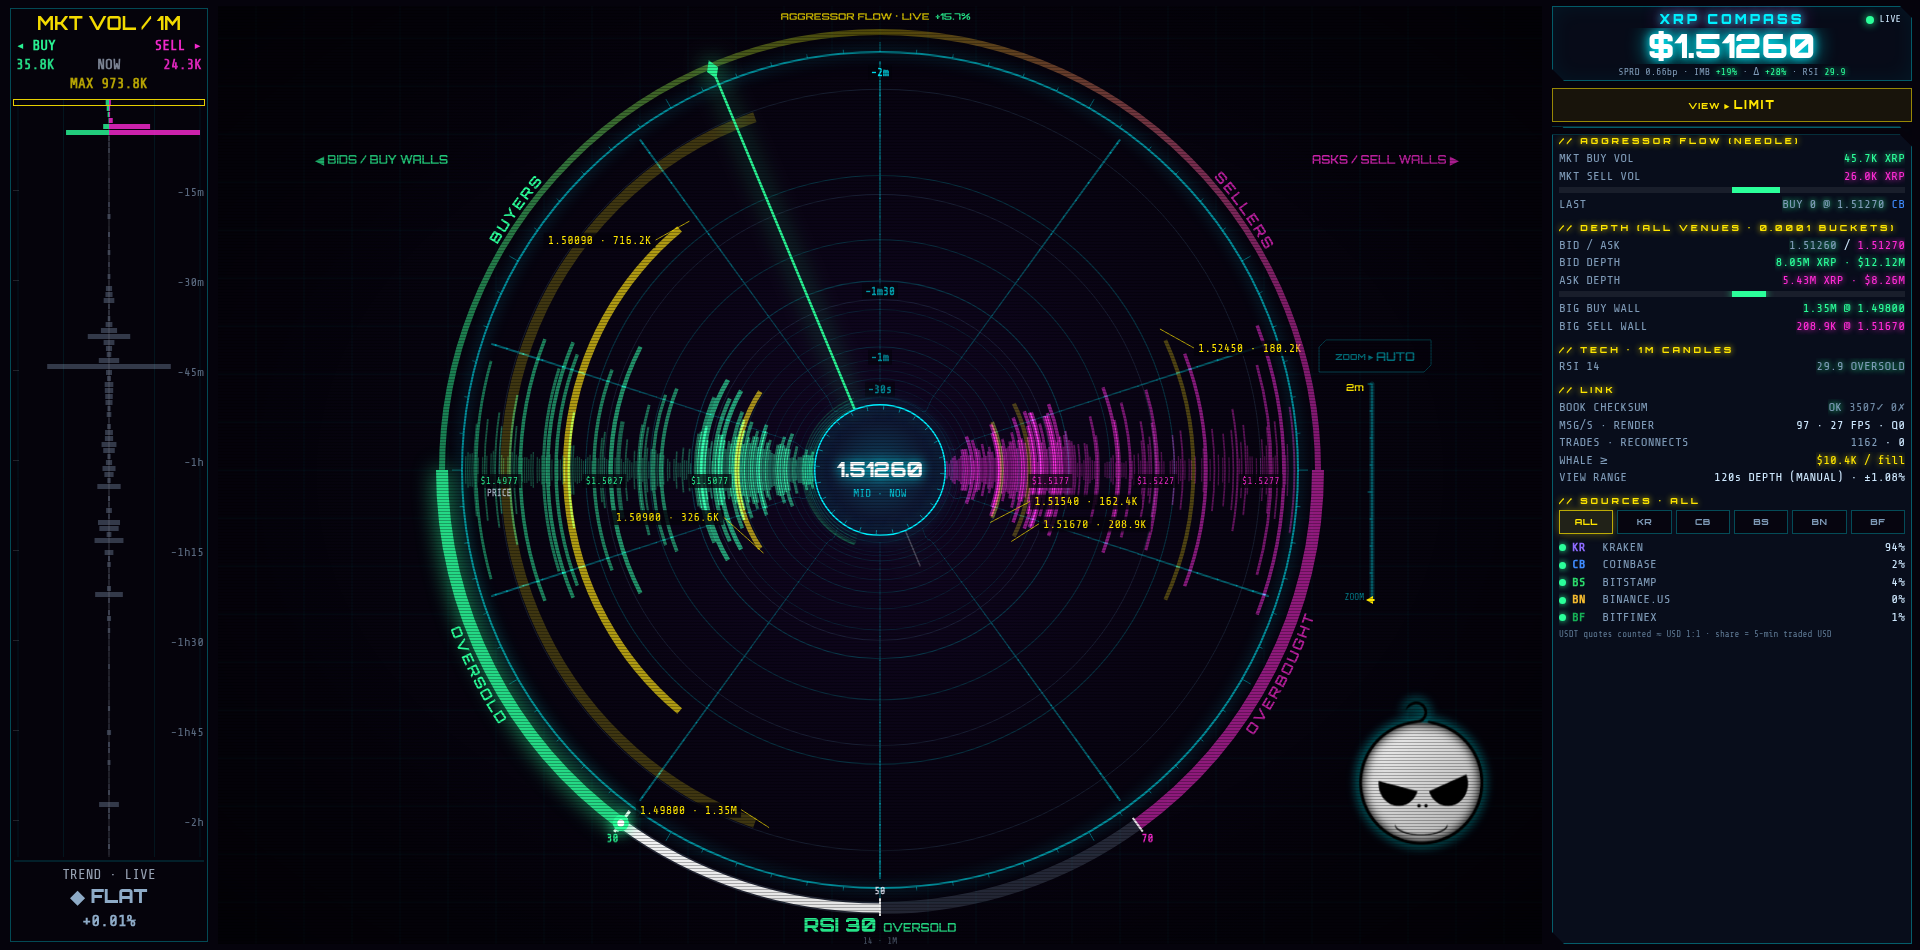
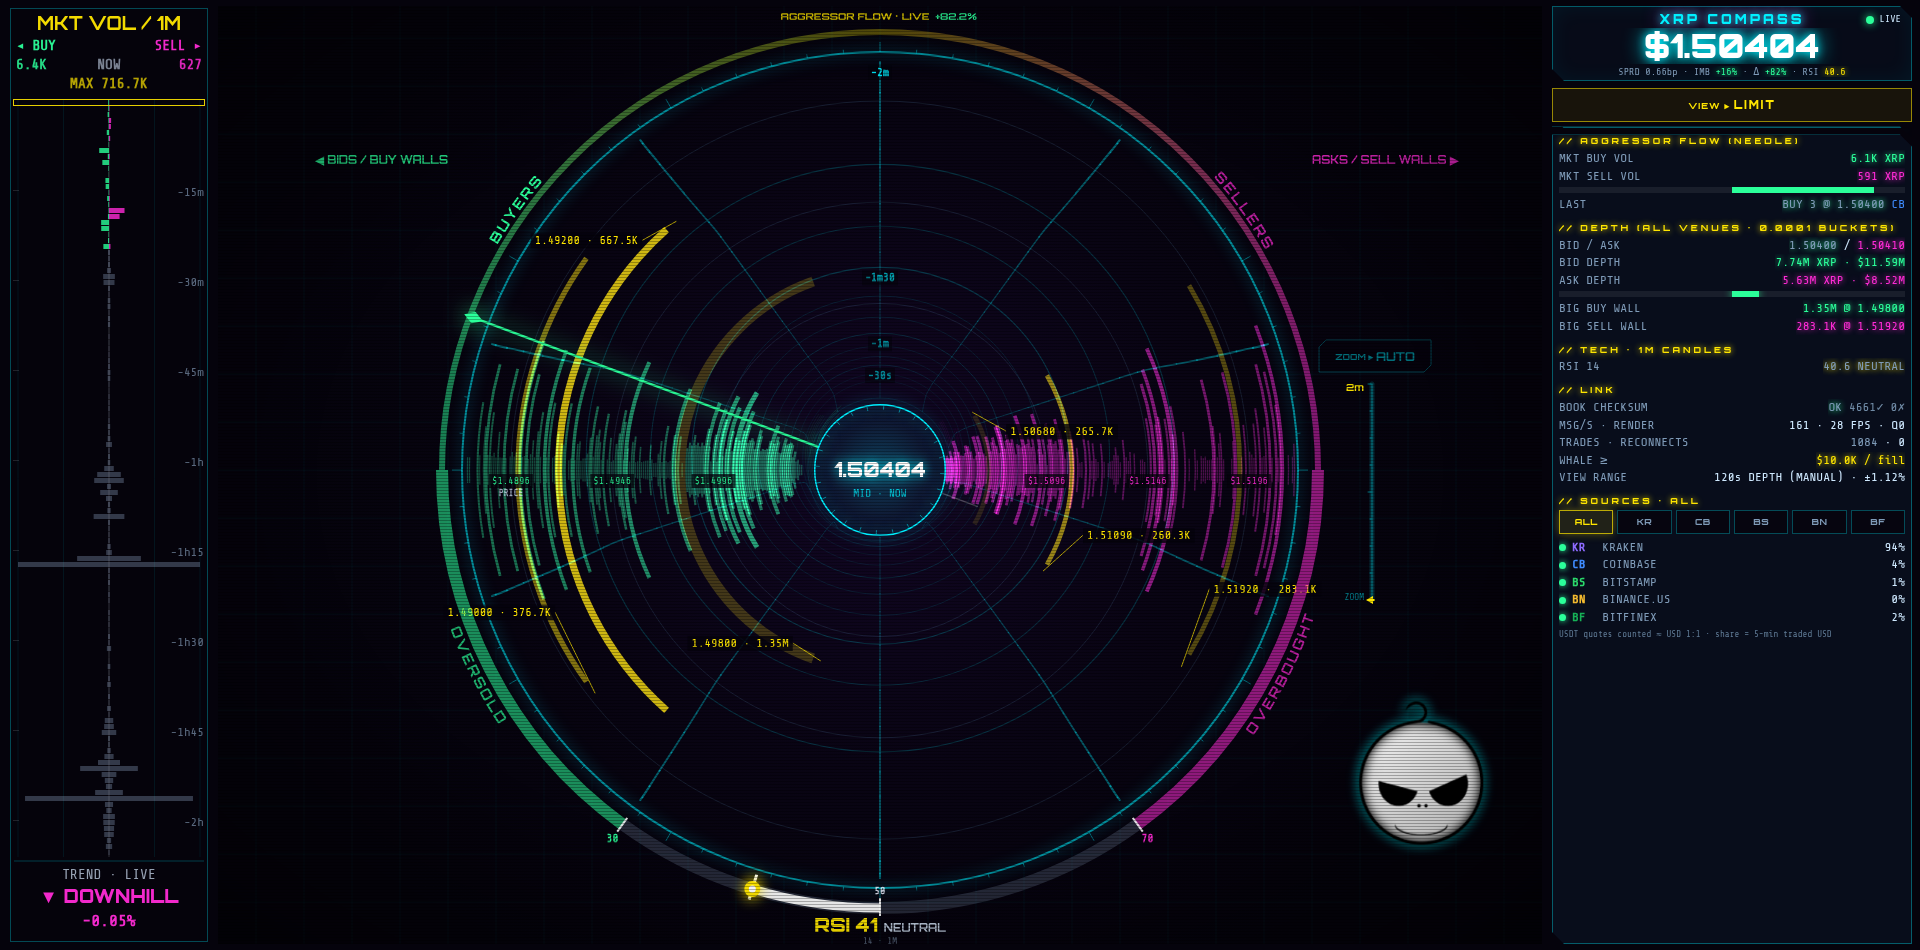
MARKET: burst sparks, thicker trail glow, symmetric AUTO vortex response; AUTO off -> zoom fully out

diff --git a/index.html b/index.html
@@ -3,7 +3,7 @@
 <head>
 <meta charset="utf-8">
 <meta http-equiv="Cache-Control" content="no-cache, no-store, must-revalidate"><meta http-equiv="Pragma" content="no-cache"><meta http-equiv="Expires" content="0">
-<script>window.OFC_BUILD='20261002-1106';(function(){try{if(!/^https?:/.test(location.protocol))return;fetch(location.pathname+'?_='+Date.now(),{cache:'no-store'}).then(r=>r.text()).then(t=>{const m=t.match(/OFC_BUILD='([^']+)'/);if(m&&m[1]!==window.OFC_BUILD&&sessionStorage.getItem('ofcB')!==m[1]){sessionStorage.setItem('ofcB',m[1]);location.replace(location.pathname+'?v='+m[1]+location.hash);}}).catch(()=>{});}catch(e){}})();</script>
+<script>window.OFC_BUILD='20261002-1220';(function(){try{if(!/^https?:/.test(location.protocol))return;fetch(location.pathname+'?_='+Date.now(),{cache:'no-store'}).then(r=>r.text()).then(t=>{const m=t.match(/OFC_BUILD='([^']+)'/);if(m&&m[1]!==window.OFC_BUILD&&sessionStorage.getItem('ofcB')!==m[1]){sessionStorage.setItem('ofcB',m[1]);location.replace(location.pathname+'?v='+m[1]+location.hash);}}).catch(()=>{});}catch(e){}})();</script>
 <meta name="viewport" content="width=device-width,initial-scale=1,viewport-fit=cover,user-scalable=no">
 <meta name="theme-color" content="#05030c">
 <meta name="color-scheme" content="dark">
@@ -247,6 +247,8 @@ const book={bids:new Map(), asks:new Map(), ready:false};
 let sortedB=[], sortedA=[];                 // COMBINED [[p,q]] bids desc, asks asc (all venues or the selected one)
 let kB=[], kA=[];                           // Kraken's own book (for its CRC32 checksum)
 let mid=0, dispMid=0, bestBid=0, bestAsk=0;
+let SIM={on:false,base:0,t0:0,dir:0,amp:0,ramp:1};const simOff=()=>SIM.dir?SIM.dir*SIM.amp*Math.min(1,Math.max(0,(Date.now()-SIM.t0)/SIM.ramp)):0;
+const simPx=p=>SIM.on?SIM.base+simOff():p;   // test-only: replace prices with a synthetic flat/ramp path   // test-only synthetic price move (0 unless __ofc.simMove)
 let trades=[];                              // {t,side,qty,px}
 let bubbles=[];                             // {t,side,qty,px,ang,whale,usd}
 let sparks=[], shocks=[];
@@ -400,11 +402,11 @@ function processTrades(list,replay){
   // aggregate fills of one batch by side+price (Bookmap-style)
   const agg=new Map();
   for(const t of list){
-    const side=t.side, px=t.px, qty=t.qty, ts=t.ts;
+    const side=t.side, px=simPx(t.px), qty=t.qty, ts=t.ts;
     if(addSplit(t.v+':'+t.id,ts,side,qty,px)===false)continue;
     trades.push({t:Math.min(ts,dnow),side,qty,px,v:t.v});
     heatAdd(px,side,qty,Math.max(0,(dnow-ts)/1000));
-    if(!replay&&dnow-ts<3000){impacts.push({t:pnow,px,side,qty});if(impacts.length>60)impacts.shift();}
+    if(!replay&&dnow-ts<3000){impacts.push({t:pnow,px,side,qty,life:burst.on?1150:700,bu:burst.on});if(impacts.length>60)impacts.shift();}
     if(!replay){tradeCount++; lastTrade={side,px,qty,v:t.v};}
     const k=side+px; const a=agg.get(k);
     if(a){a.qty+=qty;}else agg.set(k,{side,px,qty,id:hashStr(t.v+t.id),ts,v:t.v});
@@ -465,7 +467,7 @@ function combine(){
   sortedB=[...bm.entries()].filter(x=>x[0]<M).sort((x,y)=>y[0]-x[0]);sortedA=[...am.entries()].filter(x=>x[0]>M).sort((x,y)=>x[0]-y[0]);
   if(sortedB.length>200)sortedB.length=200;if(sortedA.length>200)sortedA.length=200;
   if(!sortedB.length||!sortedA.length){BREADY=false;return;}
-  bestBid=sortedB[0][0];bestAsk=sortedA[0][0];mid=one?(bestBid+bestAsk)/2:M;if(!dispMid)dispMid=mid;BREADY=true;
+  bestBid=sortedB[0][0];bestAsk=sortedA[0][0];mid=simPx(one?(bestBid+bestAsk)/2:M);if(!dispMid)dispMid=mid;BREADY=true;
 }
 setInterval(()=>{if(combDirty)combine();},LOWDEV()?250:150);
 function LOWDEV(){return matchMedia('(pointer:coarse)').matches;}
@@ -1272,7 +1274,7 @@ function drawTrail(now){
     const r=RMAX*KO*s+off, th=ang(age);   // head (f=0) = newest trade -> off 0 -> rides the outer ring
     let x=p.x+Math.cos(th)*r, y=p.y+Math.sin(th)*r;
     {const dx=x-CX,dy=y-CY,d=Math.hypot(dx,dy),m=RMAX*0.995,k0=0.9*m;if(d>k0){const dd=k0+(m-k0)*Math.tanh((d-k0)/(m-k0));x=CX+dx*dd/d;y=CY+dy*dd/d;}}   // soft outer edge
-    if(WIG.length<4000)WIG.push(off);
+    if(WIG.length<4000)WIG.push(off); if(f===3||f===8)(window.__ofcR=window.__ofcR||{})['o'+f]=off;
     return {x,y,s,u};};
   const SUB=MWIN<=20?10:MWIN<=45?6:MWIN<=90?4:3, sub=a=>{const o=[];for(let j=0;j<=SUB;j++)o.push(pt(a+j/SUB));return o;};
   const P=[];for(let a=0;a<=NW;a++)P.push(pt(a));
@@ -1287,15 +1289,17 @@ function drawTrail(now){
   // centreline spine: thin continuous track that fades into the vanishing point
   ctx.lineWidth=1;
   const S=[];for(let a=0;a<P.length-1;a++)S.push(sub(a));
-  for(const [lw,al] of [[5,0.12],[1.4,0.7]]){ctx.lineWidth=lw;
+  for(const [lw,al] of (LOW?[[10,0.10],[4.5,0.16],[1.6,0.75]]:[[14,0.07],[8,0.12],[4,0.18],[1.6,0.75]])){ctx.lineWidth=lw*Math.max(0.8,RMAX/400);
     for(let a=0;a<S.length;a++){const q=S[a];ctx.strokeStyle=`rgba(0,240,255,${(al*Math.pow(P[a].u,0.8)).toFixed(3)})`;
       ctx.beginPath();ctx.moveTo(q[0].x,q[0].y);for(let j=1;j<q.length;j++)ctx.lineTo(q[j].x,q[j].y);ctx.stroke();}}
   // volume ribbon: colour = buy/sell dominance, width = volume; thins and fades with depth
   ctx.globalCompositeOperation='lighter';
   for(let a=P.length-2;a>=0;a--){const b=trail[a],v=b.bs+b.ss;if(v<=0)continue;
     const rel=Math.sqrt(v/vref),c=mixCol((b.bs-b.ss)/v),p0=P[a],p1=P[a+1],u=p0.u;if(u<=0.01)continue;
-    const ht=hot[a]; ctx.strokeStyle=rgba(c,Math.min(1,(0.4+0.45*rel+0.45*ht)*Math.pow(u,0.9)));ctx.lineWidth=(2.4+RMAX*0.07*rel+RMAX*0.05*ht)*(0.12+0.88*u);
-    if(Q>0&&(rel>0.35||ht>0.3)&&u>0.3){ctx.shadowColor=rgba(c,1);ctx.shadowBlur=(12*rel+18*ht*(0.7+0.3*pulse))*u;}else ctx.shadowBlur=0;
+    const ht=hot[a],LW=(2.4+RMAX*0.07*rel+RMAX*0.05*ht)*(0.12+0.88*u);
+    {const q=S[a];ctx.shadowBlur=0;ctx.strokeStyle=rgba(c,(0.16*Math.pow(u,0.9)).toFixed(3));ctx.lineWidth=LW*2.4+6*(0.3+0.7*u);ctx.beginPath();ctx.moveTo(q[0].x,q[0].y);for(let j=1;j<q.length;j++)ctx.lineTo(q[j].x,q[j].y);ctx.stroke();}   // wide soft glow underlay
+    ctx.strokeStyle=rgba(c,Math.min(1,(0.4+0.45*rel+0.45*ht)*Math.pow(u,0.9)));ctx.lineWidth=LW;
+    if(Q>0&&(rel>0.25||ht>0.3)&&u>0.3){ctx.shadowColor=rgba(c,1);ctx.shadowBlur=(18*rel+26*ht*(0.7+0.3*pulse))*u;}else ctx.shadowBlur=0;
     {const q=S[a];ctx.beginPath();ctx.moveTo(q[0].x,q[0].y);for(let j=1;j<q.length;j++)ctx.lineTo(q[j].x,q[j].y);ctx.stroke();}}
   ctx.shadowBlur=0;
   // bloom + twinkling sparks where the trail crosses the most-traded levels
@@ -1309,12 +1313,14 @@ function drawTrail(now){
     TRHOT.push({a,key:trailT-a*1000*trailStep,x:p.x,y:p.y,ht,u:p.u,px:b.Ps,v:HT[a],c:b.bs>=b.ss?COL.bid:[255,59,107]});}
   TRHEAD={x:P[0].x,y:P[0].y};TRP=P;
   // fresh prints burst as short sparks from the head (NOW)
-  impacts=impacts.filter(m=>now-m.t<700);
-  for(const m of impacts){const k=(now-m.t)/700,c=m.side==='buy'?COL.bid:COL.ask,big=Math.min(1,Math.sqrt(m.qty*(m.px||1)/whaleUSD));if(big<0.08)continue;
+  impacts=impacts.filter(m=>now-m.t<(m.life||700));
+  for(const m of impacts){const k=(now-m.t)/(m.life||700),c=m.side==='buy'?COL.bid:COL.ask,big=Math.min(1,Math.sqrt(m.qty*(m.px||1)/whaleUSD));if(big<0.08)continue;
     const th=(m.t*0.0137)%(Math.PI*2),d0=R0*(0.15+0.9*k),d1=d0+R0*(0.25+0.8*big)*(1-k),HX=TRHEAD.x,HY=TRHEAD.y;
-    ctx.strokeStyle=rgba(c,0.9*(1-k));ctx.lineWidth=1+2*big;ctx.shadowColor=rgba(c,1);ctx.shadowBlur=Q>0?10:0;
+    const BU=m.bu?1:0;ctx.strokeStyle=rgba(BU?[Math.min(255,c[0]+90),Math.min(255,c[1]+90),Math.min(255,c[2]+90)]:c,(BU?1:0.9)*(1-k));ctx.lineWidth=(1+2*big)*(1+0.8*BU);ctx.shadowColor=rgba(c,1);ctx.shadowBlur=Q>0?10+10*BU:0;
+    if(BU&&!m.sp){m.sp=1;spawnBP(m,c,big);}
     ctx.beginPath();ctx.moveTo(HX+Math.cos(th)*d0,HY+Math.sin(th)*d0);ctx.lineTo(HX+Math.cos(th)*d1,HY+Math.sin(th)*d1);ctx.stroke();}
   ctx.shadowBlur=0;
+  drawBP(now);
   // whale nodes: small bright dots along the trail
   trail.forEach((b,a)=>{if(!b.wh||a>=P.length)return;const p=P[a];if(p.u<=0.03)return;const c=b.wh.side==='buy'?COL.bid:COL.ask;
     const r=(1.8+Math.min(4,1.6*Math.sqrt(b.wh.usd/whaleUSD)))*(0.4+0.6*p.u);
@@ -1325,6 +1331,20 @@ function drawTrail(now){
   ctx.shadowBlur=0;ctx.globalCompositeOperation='source-over';
   ctx.restore();
 }
+// burst particles (MARKET, only while a volume burst is active): more, bigger, brighter, longer-lived sparks flung from the head
+let BP=[],BPt=0;
+function spawnBP(m,c,big){const n=Math.round((LOW?5:11)*(0.6+big)),sc=RMAX/400;
+  for(let i=0;i<n;i++){const a=Math.random()*Math.PI*2,v=(60+Math.random()*190)*sc*(0.7+0.6*big);
+    BP.push({x:TRHEAD.x,y:TRHEAD.y,vx:Math.cos(a)*v,vy:Math.sin(a)*v,t0:performance.now(),life:900+Math.random()*900,sz:(1.4+Math.random()*2.2)*(0.8+0.5*big)*Math.max(0.8,sc),c});}
+  const CAP=LOW?140:420;if(BP.length>CAP)BP.splice(0,BP.length-CAP);}
+function drawBP(now){const dt=BPt?Math.min(0.05,(now-BPt)/1000):0;BPt=now;if(!BP.length)return;
+  BP=BP.filter(p=>now-p.t0<p.life);const dr=Math.exp(-dt*1.6);
+  ctx.save();ctx.globalCompositeOperation='lighter';ctx.lineCap='round';
+  for(const p of BP){p.x+=p.vx*dt;p.y+=p.vy*dt;p.vx*=dr;p.vy*=dr;const k=(now-p.t0)/p.life,al=Math.pow(1-k,1.3),c=p.c;
+    const tx=p.x-p.vx*0.07,ty=p.y-p.vy*0.07;
+    ctx.strokeStyle=rgba(c,(0.35*al).toFixed(3));ctx.lineWidth=p.sz*3.2*(1-0.5*k);ctx.beginPath();ctx.moveTo(tx,ty);ctx.lineTo(p.x,p.y);ctx.stroke();   // soft glow
+    ctx.strokeStyle=`rgba(255,255,255,${(0.95*al).toFixed(3)})`;ctx.lineWidth=p.sz*(1-0.5*k);ctx.beginPath();ctx.moveTo(tx,ty);ctx.lineTo(p.x,p.y);ctx.stroke();}   // hot core
+  ctx.restore();}
 // glowing head (NOW) riding the compass's outer ring; drawn outside the dial clip, glow capped below the gauge arcs/ring labels
 // MARKET: hub + head tag both show the LAST trade (current source filter) so they always match; LIMIT hub = MID
 const hubPx=()=>VIEW==='market'&&trades.length?trades[trades.length-1].px:mid;
@@ -1385,7 +1405,7 @@ function drawZoomBar(now){
 // tap/drag the bar to set zoom (touch + mouse); stays out of pinch / double-tap handling
 let zDrag=false, pillT=0;
 function pillHit(px,py){const Z=zbarGeom();return !!(Z&&Z.pw&&px>Z.px-6&&px<Z.px+Z.pw+6&&py>Z.py-6&&py<Z.py+Z.ph+6);}
-function pillTap(){const n=performance.now();if(n-pillT<450)return;pillT=n;intro=null;if(rangeAuto)rangeFrac=dispRange;setAuto(!rangeAuto);syncZA();}
+function pillTap(){const n=performance.now();if(n-pillT<450)return;pillT=n;intro=null;if(rangeAuto)rangeFrac=ZMAX;setAuto(!rangeAuto);syncZA();}   // AUTO off -> ease to fully zoomed out (MARKET 60 s / LIMIT 2 m) until the user zooms
 function syncZA(){const b=$('zauto');if(b&&b.classList.contains('lit')!==rangeAuto)b.classList.toggle('lit',rangeAuto);}
 $('zauto').onclick=()=>{pillTap();};  // ON snaps back to auto-fit
 function zHit(px,py){const Z=zbarGeom();return Z&&Math.abs(px-Z.x)<18&&py>Z.y0-14&&py<Z.y1+8?Z:null;}
@@ -1467,13 +1487,13 @@ function frame(){
       if(intro.set!=null&&(rangeAuto||rangeFrac!==intro.set))intro=null;          // user zoomed (pinch/wheel/bar/double-tap) -> cancel
       else{if(!intro.t0)intro.t0=now; const p=Math.min(1,(now-intro.t0)/INTRO_MS), e=p<0.5?4*p*p*p:1-Math.pow(-2*p+2,3)/2;
         rangeAuto=false; rangeFrac=ZMIN*Math.pow(ZMAX/ZMIN,e); dispRange=rangeFrac; intro.set=rangeFrac; if(p>=1)intro=null;}}
-    if(!intro){if(VIEW==='market'&&rangeAuto){const ZE=burst.on?0.08:(Date.now()-burst.rel<7000?0.022:0.05);dispRange*=Math.exp(Math.log(rangeFrac/dispRange)*ZE);}else dispRange+=(rangeFrac-dispRange)*0.05;}   // MARKET AUTO: log-space ease (burst: quick snap in; release: slow ease out)   // burst: fast smooth snap in; release: slow ease out dispMid+=(mid-dispMid)*0.2;
+    if(!intro){if(VIEW==='market'&&rangeAuto){const ZE=(burst.on||rangeFrac<dispRange)?0.08:(Date.now()-burst.rel<7000?0.022:0.05);/* symmetric: price-driven zoom-in snaps exactly like a volume burst, so up/down react identically regardless of volume */dispRange*=Math.exp(Math.log(rangeFrac/dispRange)*ZE);}else dispRange*=Math.exp(Math.log(rangeFrac/dispRange)*0.06);}   // manual: log-space ease (window is log-mapped -> smooth)   // MARKET AUTO: log-space ease (burst: quick snap in; release: slow ease out)   // burst: fast smooth snap in; release: slow ease out dispMid+=(mid-dispMid)*0.2;
   }
   ctx.fillStyle='rgba(5,3,12,1)';ctx.fillRect(0,0,W,H);
   const bg=ctx.createRadialGradient(CX,CY,0,CX,CY,RMAX*1.6);bg.addColorStop(0,'rgba(30,10,60,.55)');bg.addColorStop(1,'rgba(5,3,12,0)');ctx.fillStyle=bg;ctx.fillRect(0,0,W,H);
   updateFocal(); MWIN=VIEW==='market'?mWinOf(dispRange):MWMAX; LWIN=VIEW==='limit'?lWinOf(dispRange):HIST_SEC;
   if(VIEW==='market'){ // vortex spin: eased speed 0..1 ramps with zoom (0 at 60 s -> 1 at 15 s; burst snap in AUTO = 1); counter-clockwise (head runs clockwise)
-    const zr=Math.max(0,Math.min(1,(MWMAX-MWIN)/(MWMAX-WMIN))), zk=zr*zr*(3-2*zr), tgt=Math.max(zk,burst.on&&rangeAuto?1:0);
+    const WT=rangeAuto?Math.min(MWIN,mWinOf(rangeFrac)):MWIN, zr=Math.max(0,Math.min(1,(MWMAX-WT)/(MWMAX-WMIN))), zk=zr*zr*(3-2*zr), tgt=Math.max(zk,burst.on&&rangeAuto?1:0);
     const dt=VSP.t?Math.min(0.1,Math.max(0,(now-VSP.t)/1000)):0; VSP.t=now; VSP.w+=(tgt-VSP.w)*Math.min(1,dt*1.6); VSP.ph-=VSP.w*0.75*dt;   // max ~0.75 rad/s CCW
   } else {VSP.w=0;VSP.t=0;}
   updatePath(now);
@@ -1499,7 +1519,7 @@ function frame(){
 connect();seedREST();
 requestAnimationFrame(frame);
 document.addEventListener('visibilitychange',()=>{if(!document.hidden&&(!ws||ws.readyState>1)){backoff=1000;connect();}});
-window.__ofc={get hubLogo(){return !WIDE&&LOGO.complete&&LOGO.naturalWidth>0},get hdrLogo(){const e=document.querySelector('#top .logo');return !!e&&getComputedStyle(e).display!=='none'},get flares(){return VIEW==='market'?[...FLR.entries()].map(([k,F])=>{const p=F.dx!=null?{x:F.dx,y:F.dy}:null;return {k,T:F.T,tT:trailT,st:trailStep,w:+F.w.toFixed(2),on:!!F.on,side:F.c===COL.bid?'bid':'ask',x:p?Math.round(p.x):null,y:p?Math.round(p.y):null};}):null},winTo(S){intro=null;setAuto(false);syncZA();let lo=0,hi=1;const f=u=>mWinOf(zR(u));const dec=f(0)>f(1);for(let i=0;i<40;i++){const m=(lo+hi)/2;if((f(m)>S)===dec)lo=m;else hi=m;}rangeFrac=zR((lo+hi)/2);return f((lo+hi)/2);},get vring(){if(VIEW!=='market')return null;const p=proj(HIST_SEC);return {full:+(RMAX*p.s).toFixed(1),r:+(RMAX*p.s).toFixed(1),x:Math.round(p.x),y:Math.round(p.y),R0:Math.round(R0)}},get twist(){return VIEW==='market'?+(TWIST_MAX*VSP.w*180/Math.PI).toFixed(1):0},get spin(){return {w:+VSP.w.toFixed(3),ph:+VSP.ph.toFixed(3)}},zManual(){intro=null;setAuto(false);syncZA();},get burst(){return {...burst,now:Date.now()}},simBurst(usd){const px=trades.length?trades[trades.length-1].px:mid,n=Date.now();for(let k=0;k<8;k++)trades.push({t:n-(7-k)*300,side:k%2?'sell':'buy',qty:usd/8/px,px,v:'kraken'});trailDirty=true;},get auto(){return rangeAuto},zAuto(){intro=null;setAuto(true);syncZA();},zIn(){intro=null;setAuto(false);rangeFrac=zR(1);syncZA();},get mwin(){return +MWIN.toFixed(1)},get lwin(){return +LWIN.toFixed(1)},get prange(){return PRANGE},get disp(){return dispRange},get plbl(){return PLBL.map(q=>q.txt)},get hubTxt(){return mid?hubTxt():null},get head(){return {x:Math.round(TRHEAD.x),y:Math.round(TRHEAD.y),CX,CY,R0:Math.round(R0),RMAX:Math.round(RMAX)}},get logo(){const g=logoGeom();return g&&{x:Math.round(g.x),y:Math.round(g.y),S:g.S,CX,CY,RMAX,W,H,Z:zbarGeom()}},get ven(){return Object.fromEntries(Object.entries(VEN).map(([k,v])=>[k,{st:v.st,share:+v.share.toFixed(3),books:BOOKS.filter(B=>B.v===k).map(B=>({k:B.k,ready:B.ready,n:B.b.size+B.a.size,ck:B.ckOk,ckBad:B.ckBad,resyncs:B.resyncs}))}]))},get src(){return SRC},setSource,get comb(){return {ready:BREADY,mid,bestBid,bestAsk,nb:sortedB.length,na:sortedA.length}},get raw(){return RAW.length},get flow(){const f=flow(30);return {b:Math.round(f.b),s:Math.round(f.s),r:+f.r.toFixed(3)}},get trendW(){return trendWin()},get win(){return winSec},get heatN(){return Object.fromEntries(Object.entries(HEATS).map(([w,H])=>[w,H.m.size]))},get intro(){return intro},book,get mid(){return mid},get ck(){return {ckOk,ckBad,ckLast}},get trades(){return tradeCount},get bubbles(){return bubbles.length},get hist(){return history.length},get ind(){return ind},get candles(){return candles.size},get dir(){return INBOUND?'in':'out'},get view(){return VIEW},get layout(){return {W,H,CX,CY,RMAX,R0,WIDE}},get tunnel(){const far=proj(HIST_SEC);return {FOCAL,farScale:far.s,farY:far.y-CY,dispRange,fitFrac,rangeAuto,RMAX}},zoom(f){setAuto(false);rangeFrac=Math.min(0.08,Math.max(0.0005,rangeFrac*f));},autoZoom(){setAuto(true);},get autoOn(){return rangeAuto},get zgeom(){return zbarGeom()},get conn(){return connState},get fps(){return FPS},get q(){return Q},get rc(){return reconnects},forceDrop(){ws&&ws.close();}};
+window.__ofc={simFlat(){SIM={on:true,base:mid,t0:0,dir:0,amp:0,ramp:1};},simMove(dir,frac,ramp){SIM.t0=Date.now();SIM.dir=dir;SIM.amp=frac*SIM.base;SIM.ramp=ramp;},get resp(){const v=proj(HIST_SEC),m=proj(HIST_SEC*0.4);return {tw:+(TWIST_MAX*VSP.w*180/Math.PI).toFixed(2),vp:+(v.y-CY).toFixed(1),vm:+(m.y-CY).toFixed(1),o3:+((window.__ofcR||{}).o3||0).toFixed(1),o8:+((window.__ofcR||{}).o8||0).toFixed(1),mw:+MWIN.toFixed(1),dr:dispRange,pr:pathRef}},get bp(){return BP.length},autoOff(){pillT=0;if(rangeAuto)pillTap();},get dr(){return dispRange},get hubLogo(){return !WIDE&&LOGO.complete&&LOGO.naturalWidth>0},get hdrLogo(){const e=document.querySelector('#top .logo');return !!e&&getComputedStyle(e).display!=='none'},get flares(){return VIEW==='market'?[...FLR.entries()].map(([k,F])=>{const p=F.dx!=null?{x:F.dx,y:F.dy}:null;return {k,T:F.T,tT:trailT,st:trailStep,w:+F.w.toFixed(2),on:!!F.on,side:F.c===COL.bid?'bid':'ask',x:p?Math.round(p.x):null,y:p?Math.round(p.y):null};}):null},winTo(S){intro=null;setAuto(false);syncZA();let lo=0,hi=1;const f=u=>mWinOf(zR(u));const dec=f(0)>f(1);for(let i=0;i<40;i++){const m=(lo+hi)/2;if((f(m)>S)===dec)lo=m;else hi=m;}rangeFrac=zR((lo+hi)/2);return f((lo+hi)/2);},get vring(){if(VIEW!=='market')return null;const p=proj(HIST_SEC);return {full:+(RMAX*p.s).toFixed(1),r:+(RMAX*p.s).toFixed(1),x:Math.round(p.x),y:Math.round(p.y),R0:Math.round(R0)}},get twist(){return VIEW==='market'?+(TWIST_MAX*VSP.w*180/Math.PI).toFixed(1):0},get spin(){return {w:+VSP.w.toFixed(3),ph:+VSP.ph.toFixed(3)}},zManual(){intro=null;setAuto(false);syncZA();},get burst(){return {...burst,now:Date.now()}},simBurst(usd){const px=trades.length?trades[trades.length-1].px:mid,n=Date.now();for(let k=0;k<8;k++)trades.push({t:n-(7-k)*300,side:k%2?'sell':'buy',qty:usd/8/px,px,v:'kraken'});trailDirty=true;},get auto(){return rangeAuto},zAuto(){intro=null;setAuto(true);syncZA();},zIn(){intro=null;setAuto(false);rangeFrac=zR(1);syncZA();},get mwin(){return +MWIN.toFixed(1)},get lwin(){return +LWIN.toFixed(1)},get prange(){return PRANGE},get disp(){return dispRange},get plbl(){return PLBL.map(q=>q.txt)},get hubTxt(){return mid?hubTxt():null},get head(){return {x:Math.round(TRHEAD.x),y:Math.round(TRHEAD.y),CX,CY,R0:Math.round(R0),RMAX:Math.round(RMAX)}},get logo(){const g=logoGeom();return g&&{x:Math.round(g.x),y:Math.round(g.y),S:g.S,CX,CY,RMAX,W,H,Z:zbarGeom()}},get ven(){return Object.fromEntries(Object.entries(VEN).map(([k,v])=>[k,{st:v.st,share:+v.share.toFixed(3),books:BOOKS.filter(B=>B.v===k).map(B=>({k:B.k,ready:B.ready,n:B.b.size+B.a.size,ck:B.ckOk,ckBad:B.ckBad,resyncs:B.resyncs}))}]))},get src(){return SRC},setSource,get comb(){return {ready:BREADY,mid,bestBid,bestAsk,nb:sortedB.length,na:sortedA.length}},get raw(){return RAW.length},get flow(){const f=flow(30);return {b:Math.round(f.b),s:Math.round(f.s),r:+f.r.toFixed(3)}},get trendW(){return trendWin()},get win(){return winSec},get heatN(){return Object.fromEntries(Object.entries(HEATS).map(([w,H])=>[w,H.m.size]))},get intro(){return intro},book,get mid(){return mid},get ck(){return {ckOk,ckBad,ckLast}},get trades(){return tradeCount},get bubbles(){return bubbles.length},get hist(){return history.length},get ind(){return ind},get candles(){return candles.size},get dir(){return INBOUND?'in':'out'},get view(){return VIEW},get layout(){return {W,H,CX,CY,RMAX,R0,WIDE}},get tunnel(){const far=proj(HIST_SEC);return {FOCAL,farScale:far.s,farY:far.y-CY,dispRange,fitFrac,rangeAuto,RMAX}},zoom(f){setAuto(false);rangeFrac=Math.min(0.08,Math.max(0.0005,rangeFrac*f));},autoZoom(){setAuto(true);},get autoOn(){return rangeAuto},get zgeom(){return zbarGeom()},get conn(){return connState},get fps(){return FPS},get q(){return Q},get rc(){return reconnects},forceDrop(){ws&&ws.close();}};
 })();
 </script>
 </body>
